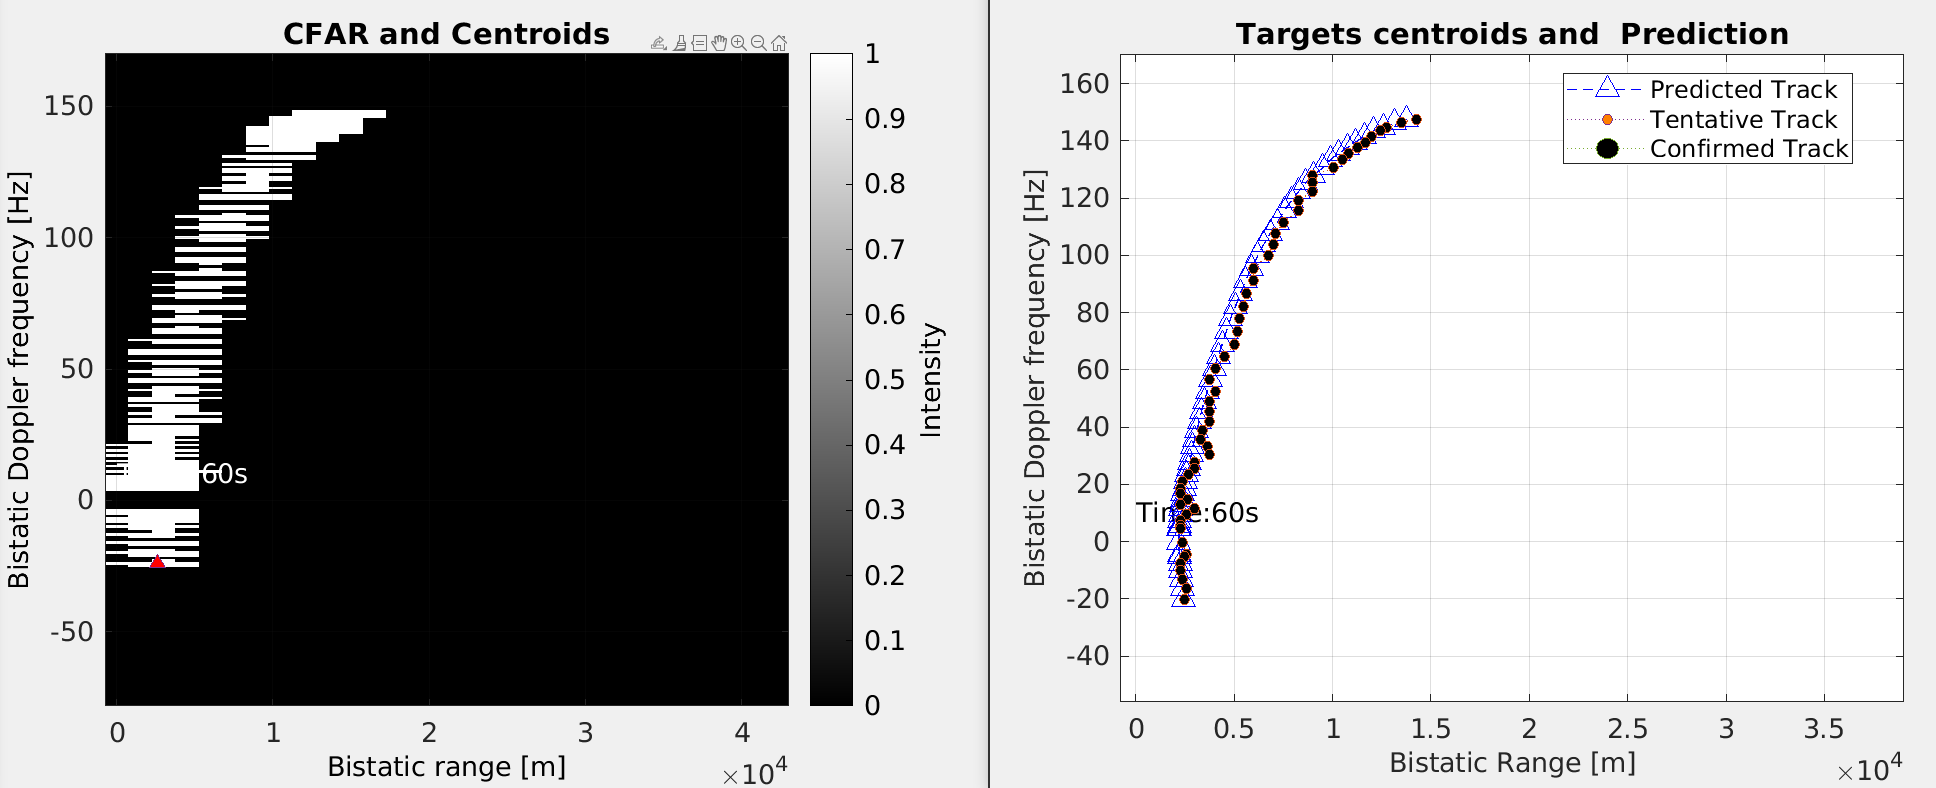
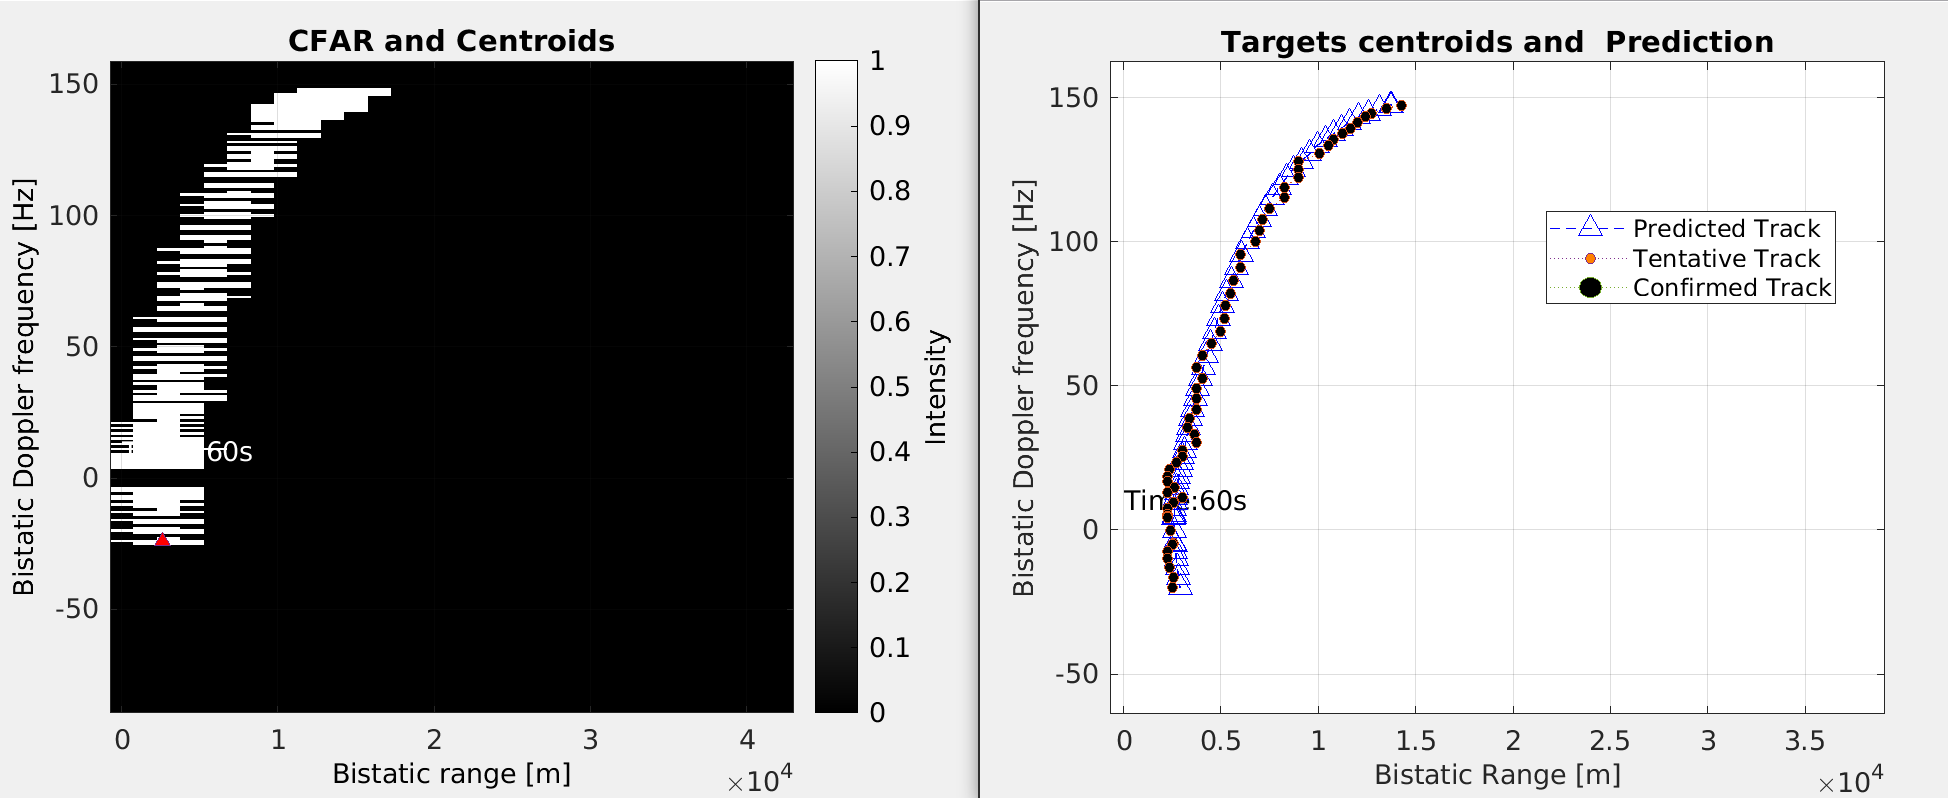
Kalman Filter

diff --git a/TrackingFilter-KalmanFilter/kalmanFilter.m b/TrackingFilter-KalmanFilter/kalmanFilter.m
@@ -35,8 +35,11 @@ classdef kalmanFilter
                      0,1;];
 
             %Process Noise Covariance Matrix For Random Acceleration
-            obj.Q = [(dt^4)/4,(dt^3)/2;
-                    (dt^3)/2,dt^2]*std_acc;
+            %obj.Q = [(dt^4)/4,(dt^3)/2;
+            %        (dt^3)/2,dt^2]*std_acc;
+            
+            obj.Q = [obj.k_d^4*(dt^4)/4,-obj.k_d^2*(dt^3)/2;
+                    -obj.k_d^2*(dt^3)/2,dt^2]*std_acc;
             
             %Standard deviation of measurement in doppler shift and delay
             %Measurement Error covariance matrix
@@ -58,7 +61,7 @@ classdef kalmanFilter
             obj.X = obj.F*obj.X ;
                        
             %P= A*P*A' + Q             
-            obj.P = obj.A * obj.P * obj.A.' + obj.Q;
+            obj.P = obj.F * obj.P * obj.A.' + obj.Q;
 
             X_pred = obj.X;
             KF_obj1  = obj;
